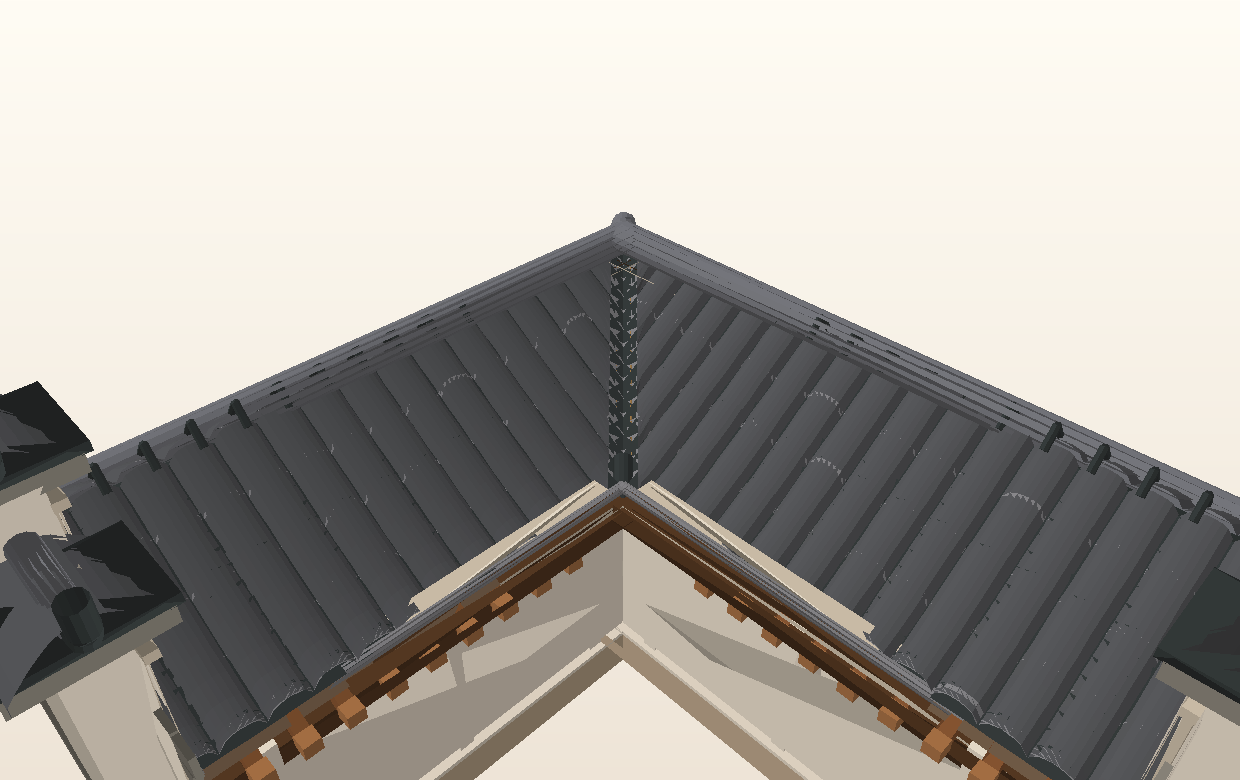
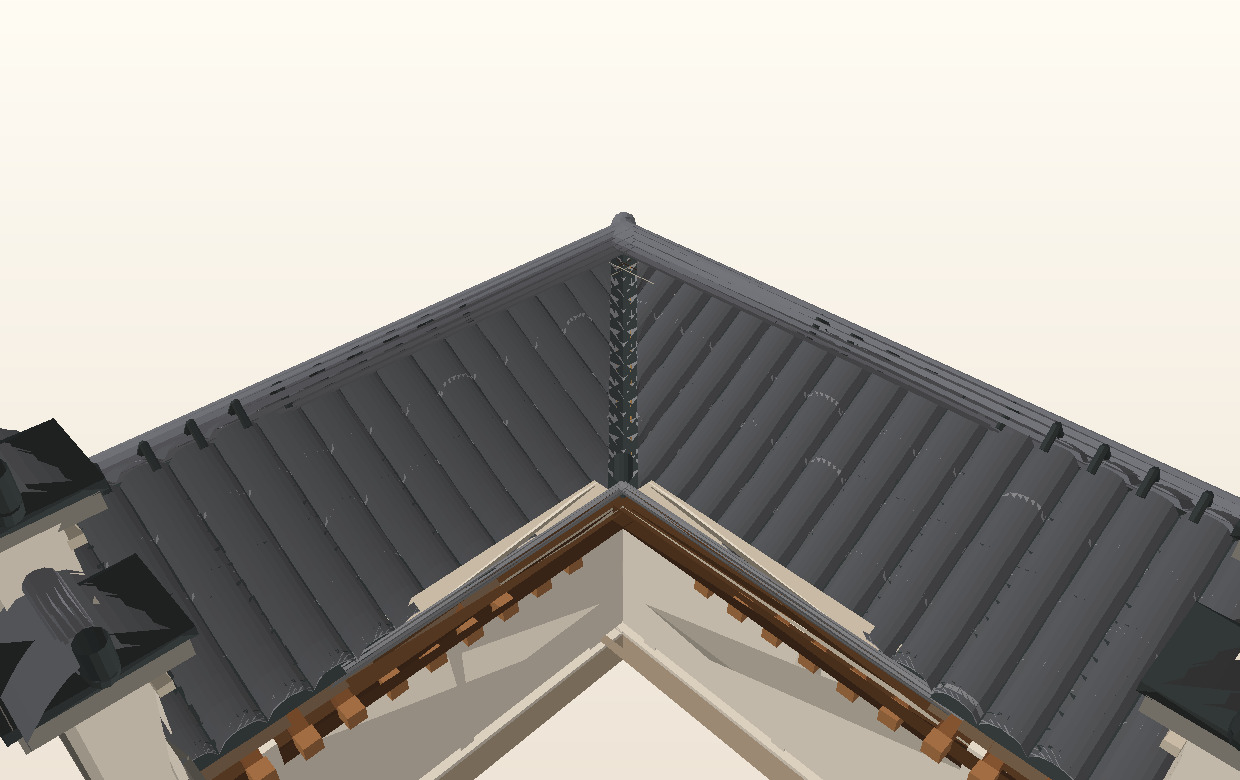
fix(ew-ux/g203): seat L-valley gable walls on common finished-floor datum with regression and corrected previews

diff --git a/g1-m2/l-valley/index.html b/g1-m2/l-valley/index.html
@@ -17,7 +17,7 @@ aside{border:1px solid #e0d7ca;border-radius:10px;background:#faf7f0;padding:24p
 </style></head><body>
 <header><div><div class="logo">EW <span>/ RESEARCH ATLAS</span></div><div class="sub-brand">PARAMETRIC ARCHITECTURE · HUIZHOU FANTASY</div></div><a href="../../">← 已验收 G1-M1</a></header>
 <main>
- <div class="heading"><div><div class="kicker">G1-M2 / STAGE 02 — UX-G203</div><h1>L 形屋面 · 阴角谷线与接缝</h1><p>两条正交屋脊共同生成一个真正的转角：瓦片裁切、斜脊转接、V 形排水及内角落水。</p></div><span class="gate">研究候选 · 待视觉验收</span></div>
+ <div class="heading"><div><div class="kicker">G1-M2 / STAGE 02 — UX-G203</div><h1>L 形屋面 · 阴角谷线与接缝</h1><p>两条正交屋脊共同生成一个真正的转角：瓦片裁切、斜脊转接、V 形排水及内角落水。</p></div><span class="gate">屋面谷线已验收 · 墙底修正待复核</span></div>
  <div class="grid"><section class="viewport" id="stage"><img id="fallback" src="./preview-balanced-overall.png" alt="L 形徽派灰瓦建筑参数化网格实际渲染静态回退"><canvas id="canvas" aria-label="G1-M2 L 形屋面三维研究视窗"></canvas>
  <div class="scene-text"><div class="num" id="study">STUDY — 01 / 02</div><h2 id="title">标准 L 形 · 屋面阴角</h2><p id="subtitle">真实几何裁切 · 共用折线谷口 · 双山墙</p></div><span class="overlay-badge" id="renderer">◌ 3D 初始化 / 静态回退</span>
  <div class="toolbar"><button class="active" id="balanced">标准 L</button><button id="extended">延长主翼</button><button id="overall" class="active">整体</button><button id="detail">阴角特写</button><button id="guides">谷线标识</button><button id="tiles">移除瓦层</button><button id="reset">重置</button><button id="save">PNG</button></div></section>
@@ -25,8 +25,8 @@ aside{border:1px solid #e0d7ca;border-radius:10px;background:#faf7f0;padding:24p
  <div class="spec"><span>数学接缝 / 共享顶点</span><strong id="vertex">—</strong></div><div class="spec"><span>谷线向庭院净下降</span><strong id="drop">—</strong></div><div class="spec"><span>排水路径平均坡度</span><strong id="slope">—</strong></div><div class="spec"><span>外角斜脊 / 内角谷线</span><strong id="joint">—</strong></div><div class="spec"><span>几何网格三角面</span><strong id="triangles">—</strong></div><div class="spec"><span>契约验证</span><strong id="contract">初始化</strong></div>
  <h3 style="font-size:18px;margin-top:23px">本轮重点审查</h3>
  <ol class="checks"><li>谷线从两屋脊交点连续向庭院下降</li><li>阴角瓦面由两侧裁切，不穿模、不留可见露底</li><li>外角斜脊与内角水谷是不同构件</li><li>檐口与木构沿 L 形外缘连续，内角有排水出口</li></ol>
- <p class="note">本页是 Stage 02 候选研究实现。自动几何测试不构成视觉验收；任意角度、T/U 形和完整流体排水仍未实现。</p></aside></div>
- <div class="detail"><div class="mini"><span class="caption">CURRENT GATE</span><strong>G203 · 待视觉验收</strong></div><div class="mini"><span class="caption">GEOMETRY TESTS</span><strong>16 / 16 PASS</strong></div><div class="mini"><span class="caption">AUTHORITY</span><strong>Read-only · 隔离</strong></div></div>
+ <p class="note">屋面转角、谷线和排水交接已获用户验收。马头墙底边按同一地坪标高修正，等待局部视觉复核；任意角度、T/U 形和完整流体排水仍未实现。</p></aside></div>
+ <div class="detail"><div class="mini"><span class="caption">CURRENT GATE</span><strong>G203 · 墙底修正待复核</strong></div><div class="mini"><span class="caption">GEOMETRY TESTS</span><strong>19 / 19 PASS</strong></div><div class="mini"><span class="caption">AUTHORITY</span><strong>Read-only · 隔离</strong></div></div>
  <div class="foot"><div>EW-UX independent research · 仅 Stage 02 候选，G1-M1 / Stage 01 均保持不变。</div><div><a href="../">← G1-M2 Stage 01 已验收</a></div></div>
 </main>
 <script type="module">

diff --git a/g1-m2/l-valley/src/l-valley.js b/g1-m2/l-valley/src/l-valley.js
@@ -16,6 +16,9 @@ export const L_VALLEY_CONTRACT = 'ew/ux/l-valley-v0.1';
 const ROOF_MAT = {under:'slateDark',slate:'slate',edge:'slateEdge',light:'slateLight',wood:'wood',woodDark:'woodDark'};
 const WALL=MODULES.find(m=>m.id==='MH-01');
 const EPS=1e-8;
+// One architectural datum for slab finish and imported gable base seats.
+const FLOOR_SURFACE={centerY:.01,thickness:.03};
+const FINISHED_FLOOR_Y=FLOOR_SURFACE.centerY+FLOOR_SURFACE.thickness/2;
 const round=n=>Math.round(n*1e8)/1e8;
 
 function assertConfig(o){
@@ -202,12 +205,18 @@ function remeshPart(part,fn,tag){const out=new Mesh(`${tag}/${part.id}`,part.mat
 function addGables(out,p){
  const params={width:3.6,depth:.38,wallHeight:2.30,stepRise:.48,steps:4};
  const g=buildModule(WALL,params); const depth=.38;
+ // G1-M1 gables are independent modules with a local baseY (0.28 m).
+ // Register that semantic wallSeat to the L-house's *finished floor* datum;
+ // do not reinterpret module wallHeight, which would alter the accepted profile.
+ const localSeatY=g.metadata.anchors.wallSeat.y;
+ const seatOffsetY=FINISHED_FLOOR_Y-localSeatY;
  // Both gable inner planes coincide with their respective roof ends.
  for(const [arm,end] of [['main',p.mainLength],['wing',p.wingLength]]){
-  const transformed=g.parts.map(part=>remeshPart(part,q=>arm==='main'?[end+depth/2-q[2],q[1],q[0]]:[q[0],q[1],end+depth/2-q[2]],`gable-${arm}`));
+  const transformed=g.parts.map(part=>remeshPart(part,q=>arm==='main'?[end+depth/2-q[2],q[1]+seatOffsetY,q[0]]:[q[0],q[1]+seatOffsetY,end+depth/2-q[2]],`gable-${arm}`));
   out.parts.push(...transformed);
  }
- return {wallDepth:depth,wallCapSpans:g.metadata.anchors.capSpans};
+ return {wallDepth:depth,localSeatY,finishedFloorY:FINISHED_FLOOR_Y,seatOffsetY,
+  wallCapSpans:g.metadata.anchors.capSpans.map(span=>({...span,level:span.level+seatOffsetY}))};
 }
 function addShell(out,p){
  const s=p.halfSpan;
@@ -219,8 +228,8 @@ function addShell(out,p){
  // Two abutting slabs, not overlapping rectangular slabs.
  stone.box((p.mainLength-s)/2,-.18,0,p.mainLength+s,.35,2*s);
  stone.box(0,-.18,(p.wingLength+s)/2,2*s,.35,p.wingLength-s);
- top.box((p.mainLength-s)/2,.01,0,p.mainLength+s,.03,2*s);
- top.box(0,.01,(p.wingLength+s)/2,2*s,.03,p.wingLength-s);
+ top.box((p.mainLength-s)/2,FLOOR_SURFACE.centerY,0,p.mainLength+s,FLOOR_SURFACE.thickness,2*s);
+ top.box(0,FLOOR_SURFACE.centerY,(p.wingLength+s)/2,2*s,FLOOR_SURFACE.thickness,p.wingLength-s);
  const lines=[
   ['main',-1,-s,p.mainLength],['main',1,s,p.mainLength],
   ['wing',-1,-s,p.wingLength],['wing',1,s,p.wingLength]
@@ -275,6 +284,19 @@ export function checkCornerContract(p,parts,flash){
  if(drop<=.5)issues.push('insufficient_valley_drop');
  for(let i=0;i<flash.valleyPath.length-1;i++)if(flash.valleyPath[i+1][1]>=flash.valleyPath[i][1]-1e-8)issues.push('valley_not_downhill');
  if(!(flash.outlet[0]>s&&flash.outlet[2]>s&&flash.outlet[1]<flash.valleyPath.at(-1)[1]))issues.push('outlet_not_exterior_or_downhill');
+ // Mixed-family contract: the gable body's physical bottom must seat on
+ // the same finished-floor surface as the connected L-house, not at local baseY.
+ const floor=parts.find(x=>x.id.includes('/L-floor-stone-surface/'));
+ const floorTop=floor?.bounds().max[1];
+ if(!Number.isFinite(floorTop)||Math.abs(floorTop-FINISHED_FLOOR_Y)>EPS)issues.push('floor_datum_mismatch');
+ for(const arm of ['main','wing']){
+  const wall=parts.find(x=>x.id.includes(`gable-${arm}/MH-01/wall-body/`));
+  const socle=parts.find(x=>x.id.includes(`gable-${arm}/MH-01/stone-socle/`));
+  if(!wall||!socle){issues.push('missing_gable_seat');continue;}
+  const base=wall.bounds().min[1],stoneBounds=socle.bounds();
+  if(Math.abs(base-floorTop)>EPS)issues.push('gable_floor_datum_mismatch');
+  if(stoneBounds.min[1]>floorTop+EPS||stoneBounds.max[1]<floorTop-EPS)issues.push('gable_socle_not_seated');
+ }
  const normalDelta=Math.abs(roofSlope(roofParams(p),.0001));
  if(normalDelta<=0)issues.push('invalid_valley_cross_slope');
  return {ok:issues.length===0,issues:[...new Set(issues)],contract:L_VALLEY_CONTRACT,

diff --git a/g1-m2/l-valley/tests/l-valley.test.js b/g1-m2/l-valley/tests/l-valley.test.js
@@ -76,3 +76,29 @@ test('deliberately corrupted seam or drain is rejected by independent contract f
  const j=checkCornerContract(g.params,g.parts,f);
  assert.equal(j.ok,false);assert.ok(j.issues.includes('valley_not_downhill'));assert.ok(j.issues.includes('outlet_not_exterior_or_downhill'));
 });
+
+// G203 owner finding: gable and L-house were in different vertical datums.
+for(const settings of [DEFAULT,{mainLength:7.1,wingLength:4.6}]){
+ test(`gable wall-bottom and stone base seats align with L-house finished floor (${settings.mainLength} m)`,()=>{
+  const g=buildLValley(settings);
+  const finish=find(g,'L-floor-stone-surface').bounds().max[1];
+  assert.ok(sep(finish,.025));
+  assert.ok(sep(g.metadata.gables.finishedFloorY,finish));
+  assert.ok(sep(g.metadata.gables.seatOffsetY,-.255));
+  for(const arm of ['main','wing']){
+   const wall=g.parts.find(p=>p.id.includes(`gable-${arm}/MH-01/wall-body/`));
+   const stone=g.parts.find(p=>p.id.includes(`gable-${arm}/MH-01/stone-socle/`));
+   assert.ok(wall&&stone);
+   assert.ok(sep(wall.bounds().min[1],finish),`${arm} wall floating over finished floor`);
+   const b=stone.bounds();assert.ok(b.min[1]<=finish&&b.max[1]>=finish);
+  }
+ });
+}
+test('contract independently detects gable vertical misregistration',()=>{
+ const g=buildLValley(),wall=g.parts.find(p=>p.id.includes('gable-main/MH-01/wall-body/'));
+ assert.ok(wall);
+ for(let i=1;i<wall.positions.length;i+=3)wall.positions[i]+=.20;
+ const result=checkCornerContract(g.params,g.parts,{width:g.seams.flashingWidth,
+   outlet:g.seams.drain,valleyPath:g.seams.valley.map(v=>[v[0],v[1]-.028,v[2]])});
+ assert.ok(result.issues.includes('gable_floor_datum_mismatch'),result.issues.join(','));
+});

diff --git a/g1-m2/l-valley/README.md b/g1-m2/l-valley/README.md
@@ -1,6 +1,6 @@
 # EW-UX G1-M2 · Stage 02 (UX-G203): L-shaped roof valley
 
-**Status: implementation candidate; NOT visually accepted.**
+**Status: roof valley and drainage owner-accepted; gable floor-datum correction v0.2 pending visual recheck.**
 
 - Base: owner-accepted `G1-M1 v0.3` and `G1-M2 Stage 01` continuous straight RoofGroup.
 - Scope: deterministic L-shaped footprint, two orthogonal roof ridges, exact no-overlap substrate partition, roof-tile cutting, SW hip, NE valley with geom. monotonic fall and an outlet into the courtyard, consistent G1 wall/eave materials.
@@ -32,3 +32,11 @@ In the live page select **标准 L** and **阴角特写**; inspect the center ri
 ## Isolation
 
 No changes to official `happygq/Expandable-Worlds` or WP1.1/Authority; no change to accepted `ew-ux-atlas` `/` or `/g1-m2/`. Geometry is a visual research fixture, not an authenticated world transaction.
+
+## Owner review and floor-datum correction (2026-11-10)
+
+- Owner accepted G203 roof corner, concave valley and drainage design, but observed gable / building bottom misalignment.
+- Confirmed root cause from actual mesh positions: `MH-01` local wall seat `Y=0.280 m` versus L-floor finish `Y=0.025 m` (0.255 m floating gap). This is a **datum registration error**, not evidence of insufficient wall height.
+- Correction: translate entire gable mesh by `finishedFloorY - module.wallSeat.y`, for both X-end and Z-end gables. Keep approved G1-M1 module master and all non-gable roof/eave/floor vertices byte-identical.
+- Added 3 regression tests including deliberate height-corruption detection; 19/19 passes. The v0.1 archive's test/export import paths were also repaired to point to `site/src`, so extracted archive is runnable.
+- The accepted hip/valley geometry retains the owner's approval. **Only the corrected wall-base visual check remains open.**

diff --git a/g1-m2/l-valley/docs/G203-Stage02-Gable-Floor-Datum-Fix-v0.2.md b/g1-m2/l-valley/docs/G203-Stage02-Gable-Floor-Datum-Fix-v0.2.md
@@ -1,0 +1,13 @@
+# G203 Stage 02 — Gable Floor Datum Registration v0.2
+
+**Issue:** owner visual inspection observed bottom-edge misregistration between MH-01 gable walls and connected L-house (2026-11-10).
+
+**Root cause:** independent MH-01 has `wallSeat.y=0.280 m`; L-house top platform surface is `Y=0.025 m`. Previously `addGables()` rotated the module into place but did not translate the Y-axis (0.255 m error).
+
+**Change:** define the L-house finished-floor datum from `FLOOR_SURFACE.centerY+thickness/2`; transform each wall vertex with `y + (finishedFloorY - g.metadata.anchors.wallSeat.y)`. Derived cap elevations are translated consistently. Reuse the same floor constants in `addShell()`.
+
+**Boundary contract:** `checkCornerContract()` now rejects `gable_floor_datum_mismatch`, `gable_socle_not_seated`, `missing_gable_seat`, and `floor_datum_mismatch`. The actual transformed wall-body mesh lower Y, not only an anchor label, must match floor finish.
+
+**Evidence:** 19/19 Stage 02 tests pass (previous 16 + 3). Both standard and extended L layouts checked; deliberately shifted wall rejected. Independent comparison of all non-gable mesh positions/normals before/after returns exact SHA-256 equality for both input variants. Total triangle count unchanged (43,206 standard; 45,722 extended).
+
+**Acceptance boundary:** owner accepted hip, valley and drainage before this fix; this correction is pending only wall-base visual recheck. T/U and height-transition structures remain out of scope. Does not modify WP1.1/Authority/G1-M1/Stage01.
